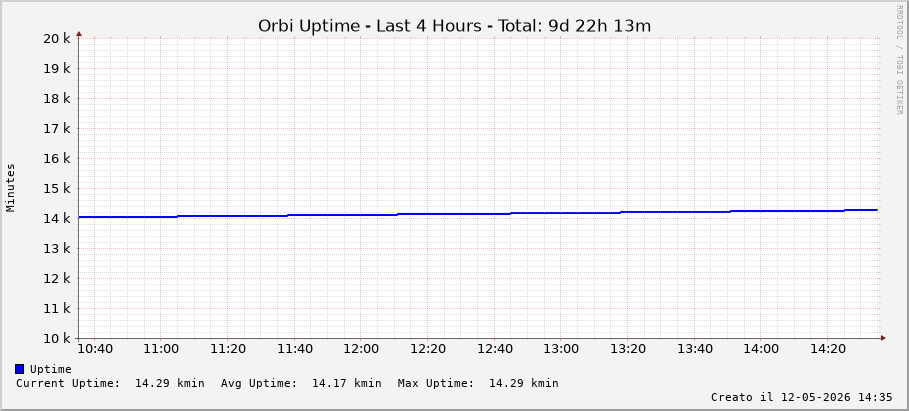
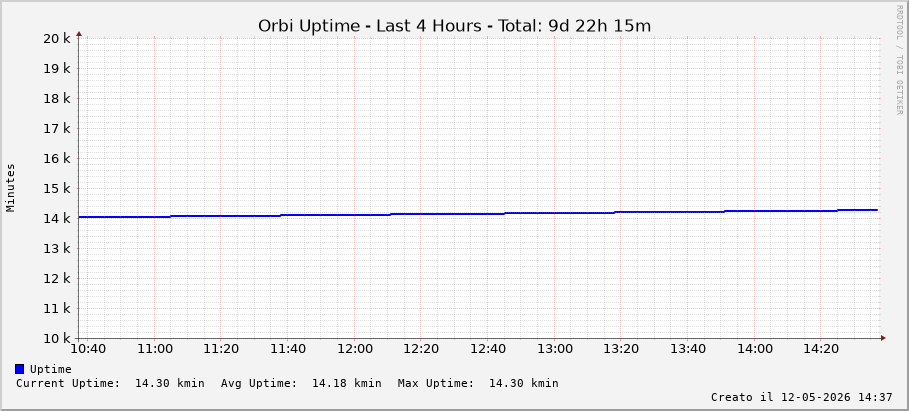
RBR50 update 2026-05-12 14:38:02

diff --git a/index.html b/index.html
@@ -41,38 +41,38 @@
 
 <div class="graph-container">
     <h2>Ultime 4 Ore</h2>
-    <img class="graph" src="images/orbi_traffic_1h.png?v=1778589361" alt="Traffico Ultima Ora">
-    <img class="graph" src="images/orbi_uptime_1h.png?v=1778589361" alt="Uptime Ultima Ora">
+    <img class="graph" src="images/orbi_traffic_1h.png?v=1778589481" alt="Traffico Ultima Ora">
+    <img class="graph" src="images/orbi_uptime_1h.png?v=1778589481" alt="Uptime Ultima Ora">
 </div>
 
 <div class="graph-container">
     <h2>Ultimo Giorno</h2>
-    <img class="graph" src="images/orbi_traffic_1d.png?v=1778589361" alt="Traffico Ultimo Giorno">
-    <img class="graph" src="images/orbi_uptime_1d.png?v=1778589361" alt="Uptime Ultimo Giorno">
+    <img class="graph" src="images/orbi_traffic_1d.png?v=1778589481" alt="Traffico Ultimo Giorno">
+    <img class="graph" src="images/orbi_uptime_1d.png?v=1778589481" alt="Uptime Ultimo Giorno">
 </div>
 
 <div class="graph-container">
     <h2>Ultima Settimana</h2>
-    <img class="graph" src="images/orbi_traffic_1w.png?v=1778589361" alt="Traffico Ultima Settimana">
-    <img class="graph" src="images/orbi_uptime_1w.png?v=1778589361" alt="Uptime Ultima Settimana">
+    <img class="graph" src="images/orbi_traffic_1w.png?v=1778589481" alt="Traffico Ultima Settimana">
+    <img class="graph" src="images/orbi_uptime_1w.png?v=1778589481" alt="Uptime Ultima Settimana">
 </div>
 
 <div class="graph-container">
     <h2>Ultimo Mese</h2>
-    <img class="graph" src="images/orbi_traffic_1m.png?v=1778589361" alt="Traffico Ultimo Mese">
-    <img class="graph" src="images/orbi_uptime_1m.png?v=1778589361" alt="Uptime Ultimo Mese">
+    <img class="graph" src="images/orbi_traffic_1m.png?v=1778589481" alt="Traffico Ultimo Mese">
+    <img class="graph" src="images/orbi_uptime_1m.png?v=1778589481" alt="Uptime Ultimo Mese">
 </div>
 
 <div class="graph-container">
     <h2>Ultimo Anno</h2>
-    <img class="graph" src="images/orbi_traffic_1y.png?v=1778589361" alt="Traffico Ultimo Anno">
-    <img class="graph" src="images/orbi_uptime_1y.png?v=1778589361" alt="Uptime Ultimo Anno">
+    <img class="graph" src="images/orbi_traffic_1y.png?v=1778589481" alt="Traffico Ultimo Anno">
+    <img class="graph" src="images/orbi_uptime_1y.png?v=1778589481" alt="Uptime Ultimo Anno">
 </div>
 
 <div class="graph-container">
     <h2>Ultimi 5 Anni</h2>
-    <img class="graph" src="images/orbi_traffic_5y.png?v=1778589361" alt="Traffico Ultimi 5 Anni">
-    <img class="graph" src="images/orbi_uptime_5y.png?v=1778589361" alt="Uptime Ultimi 5 Anni">
+    <img class="graph" src="images/orbi_traffic_5y.png?v=1778589481" alt="Traffico Ultimi 5 Anni">
+    <img class="graph" src="images/orbi_uptime_5y.png?v=1778589481" alt="Uptime Ultimi 5 Anni">
 </div>
 
 <div class="footer">
